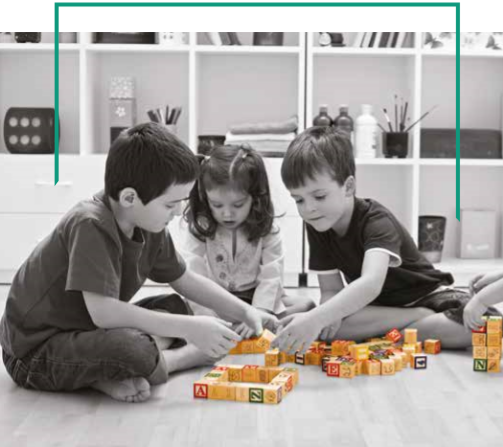
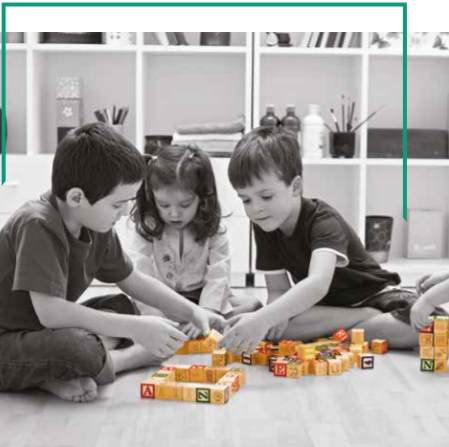
Cambio del marcador 000 (reduccion de tamano)

diff --git a/app/src/main/java/com/colsubsidio/arprueba/augmentedimage/AugmentedImageNode.java b/app/src/main/java/com/colsubsidio/arprueba/augmentedimage/AugmentedImageNode.java
@@ -36,7 +36,8 @@ public class AugmentedImageNode extends AnchorNode {
     private static CompletableFuture<ModelRenderable> spider;
 
     private static final Color CHROMA_KEY_COLOR = new Color(1.0f,1.0f,1.0f,0.0f);//0.1843f, 1.0f, 0.098f);
-    private static final float VIDEO_HEIGHT_METERS = 0.05f;
+   // private static final float VIDEO_HEIGHT_METERS = 0.05f;
+    private float VIDEO_HEIGHT_METERS = 0.05f;
 
     private ModelAnimator animator;
     private int nextAnimation;
@@ -178,13 +179,16 @@ public class AugmentedImageNode extends AnchorNode {
                 mediaPlayer.setSurface(texture.getSurface());
                 mediaPlayer.setLooping(false);
 
-                localPosition.set( -0.2f * image.getExtentX(), 0.0f, -0.22f * image.getExtentZ());
+
+
+                localPosition.set( -0.0f * image.getExtentX(), 0.0f, -0.0f * image.getExtentZ());
                 objectNode = new Node();
                 objectNode.setParent(this);
                 objectNode.setLocalRotation(Quaternion.axisAngle(Vector3.right(), -90.0f));
                 objectNode.setLocalPosition(localPosition);
                 float videoWidth = mediaPlayer.getVideoWidth();
                 float videoHeight = mediaPlayer.getVideoHeight();
+                VIDEO_HEIGHT_METERS = image.getExtentX() * (videoHeight / videoWidth);
 
                 objectNode.setLocalScale(
                         new Vector3(
